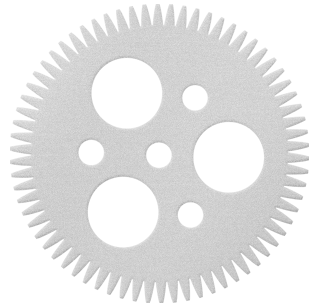
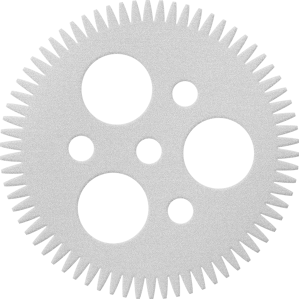
gears. done.

diff --git a/app/assets/stylesheets/application.css.scss b/app/assets/stylesheets/application.css.scss
@@ -22,20 +22,20 @@ body {
 	.gear_1 {
 		position: absolute;
 		z-index: -10000;
-		height: 307px;
-		width: 318px;
+		height: 300px;
+		width: 300px;
 		opacity: .1;
-		margin-left: 6%;
-		margin-top: 23em;
+		margin-left: 6.75%;
+		margin-top: 23.5em;
 		background: url("/assets/bg/gear_1.png") no-repeat; 
 	}
 
 	.gear_2 {
 		position: absolute;
 		z-index: -10000;
-		height: 327px;
-		width: 330px;
-		opacity: .1;
+		height: 310px;
+		width: 310px;
+		opacity: .05;
 		margin-left: 19.5%;
 		margin-top: 13em;
 		background: url("/assets/bg/gear_2.png") no-repeat; 
@@ -44,20 +44,20 @@ body {
 	.gear_3 {
 		position: absolute;
 		z-index: -10000;
-		height: 269px;
-		width: 272px;
+		height: 249px;
+		width: 249px;
 		opacity: .1;
-		margin-left: 32%;
-		margin-top: 28em;
+		margin-left: 32.75%;
+		margin-top: 28.5em;
 		background: url("/assets/bg/gear_3.png") no-repeat; 
 	}
 
 	.gear_4 {
 		position: absolute;
 		z-index: -10000;
-		height: 236px;
-		width: 243px;
-		opacity: .1;
+		height: 213px;
+		width: 213px;
+		opacity: .15;
 		margin-left: 25%;
 		margin-top: 28em;
 		background: url("/assets/bg/gear_4.png") no-repeat; 
@@ -66,33 +66,33 @@ body {
 	.gear_5 {
 		position: absolute;
 		z-index: -10000;
-		height: 221px;
-		width: 238px;
+		height: 207px;
+		width: 207px;
 		opacity: .1;
-		margin-left: 21.75%;
-		margin-top: 34em;
+		margin-left: 22.5%;
+		margin-top: 34.5em;
 		background: url("/assets/bg/gear_5.png") no-repeat; 
 	}
 
 	.gear_6 {
 		position: absolute;
 		z-index: -10000;
-		height: 136px;
-		width: 143px;
-		opacity: .1;
-		margin-left: 11.9%;
-		margin-top: 45.5em;
+		height: 121px;
+		width: 121px;
+		opacity: .05;
+		margin-left: 12.5%;
+		margin-top: 46em;
 		background: url("/assets/bg/gear_6.png") no-repeat; 
 	}
 
 	.gear_7 {
 		position: absolute;
 		z-index: -10000;
-		height: 142px;
-		width: 143px;
-		opacity: .1;
-		margin-left: 13.1%;
-		margin-top: 52.5em;
+		height: 129px;
+		width: 129px;
+		opacity: .05;
+		margin-left: 13.25%;
+		margin-top: 52.75em;
 		background: url("/assets/bg/gear_7.png") no-repeat; 
 	}
 
